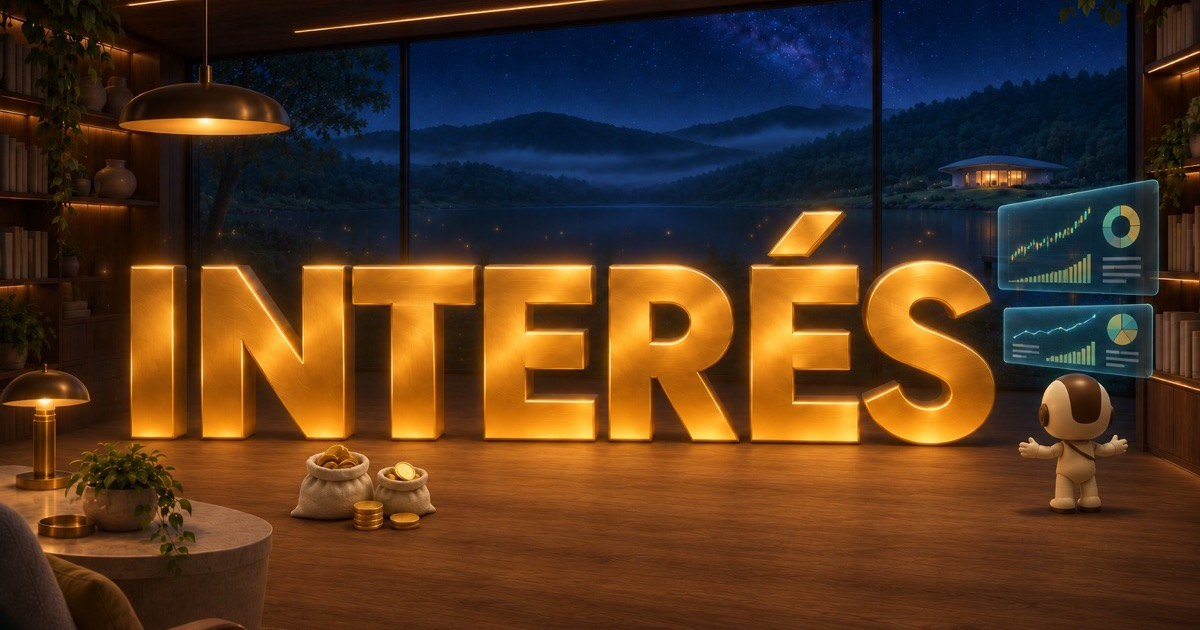
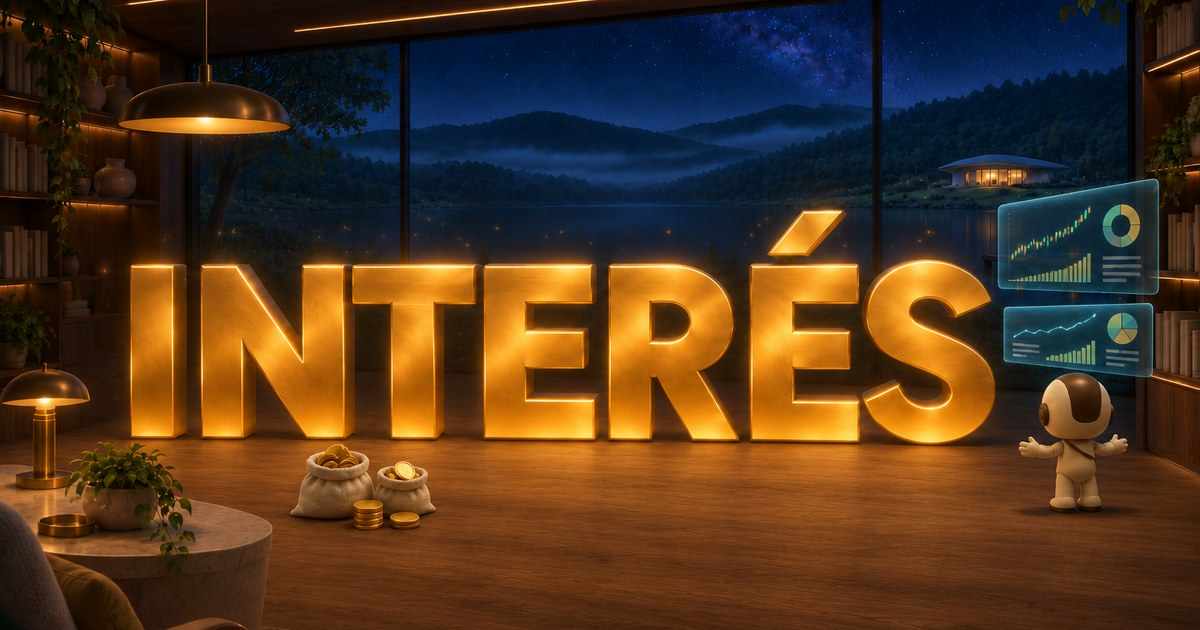
Portada del post de interés compuesto: recorte B de Diseño (pendiente de confirmar)

diff --git a/src/lib/blogOverrides.ts b/src/lib/blogOverrides.ts
@@ -62,7 +62,7 @@ export const BLOG_OVERRIDES: Record<string, BlogOverride> = {
     contenido: sinNotas(interesCompuesto),
     ctaFinal: true,
     meta: {
-      // BORRADOR: título, descripción y portada provisionales (portada: S9_estudio_v7, recorte de prueba) hasta el texto de pablo-copywriter.
+      // BORRADOR: título, descripción y portada provisionales (portada: versión B de Diseño, sin confirmar por Rodrigo) hasta el texto de pablo-copywriter.
       title: "[BORRADOR] cuánto crecería tu plata si la inviertes cada mes (con calculadora)",
       descripcion:
         "Calcula con tus propios números cuánto crecería tu plata con interés compuesto. Cálculo ilustrativo, sin impuestos, comisiones ni inflación.",
